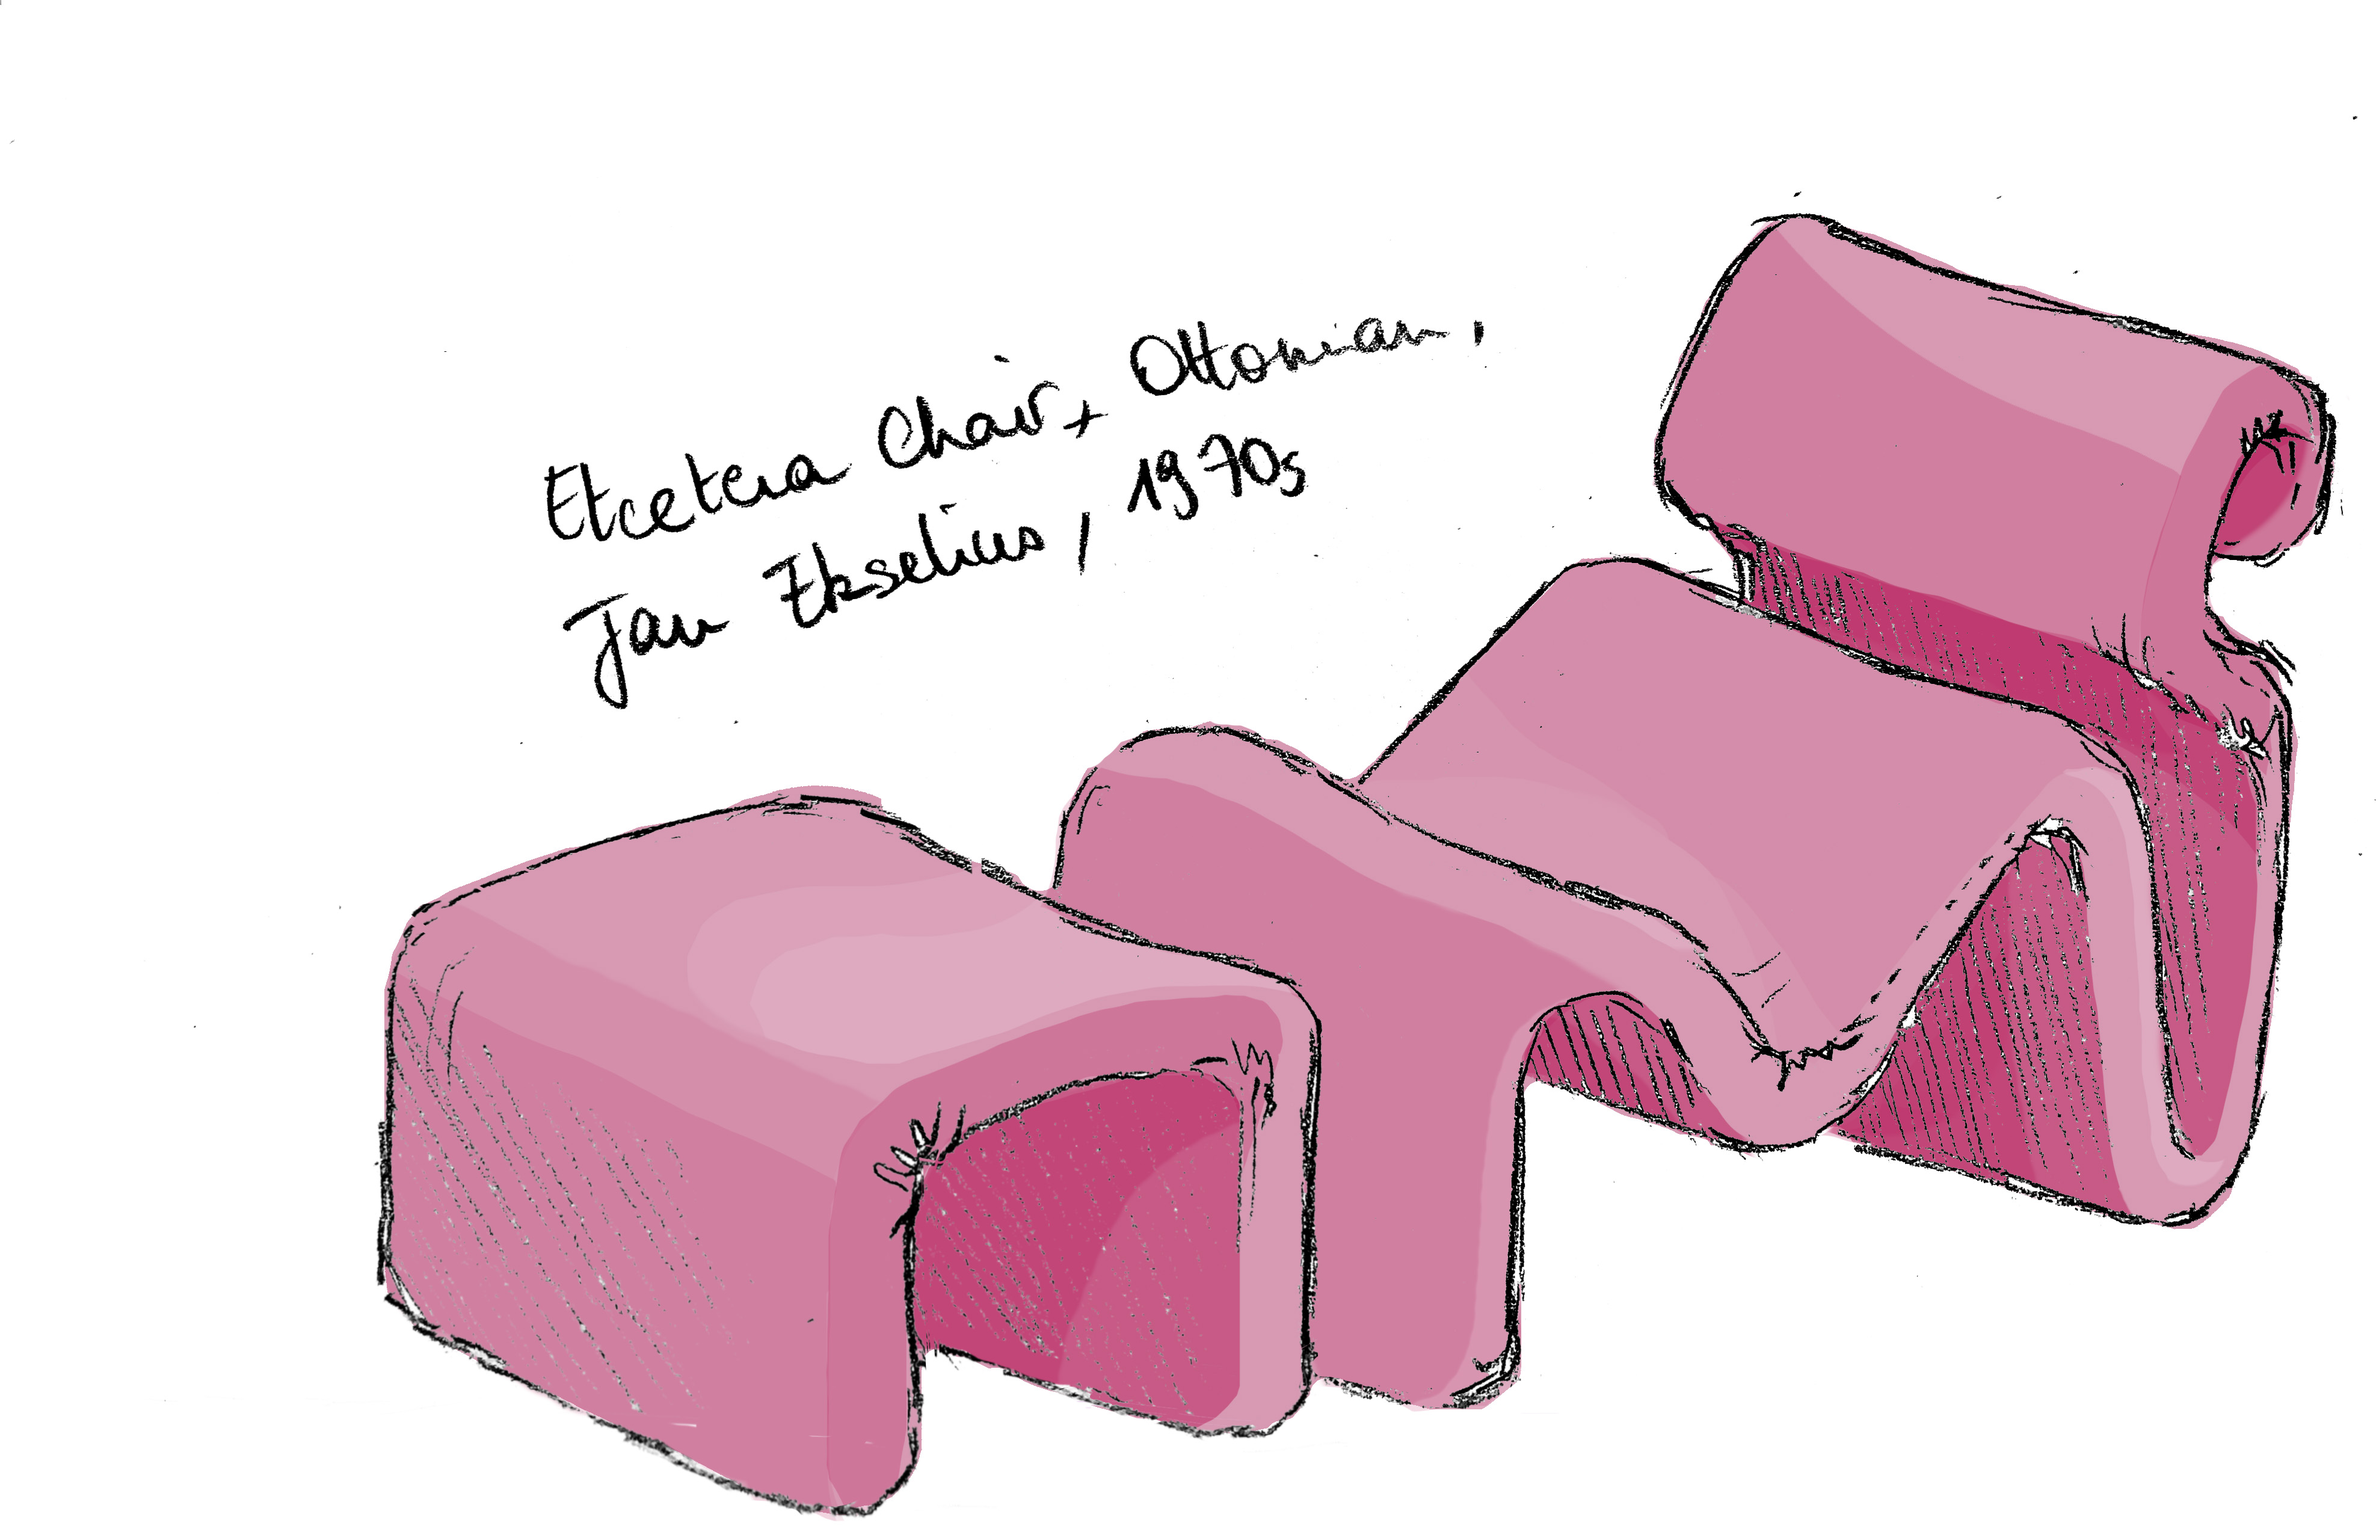
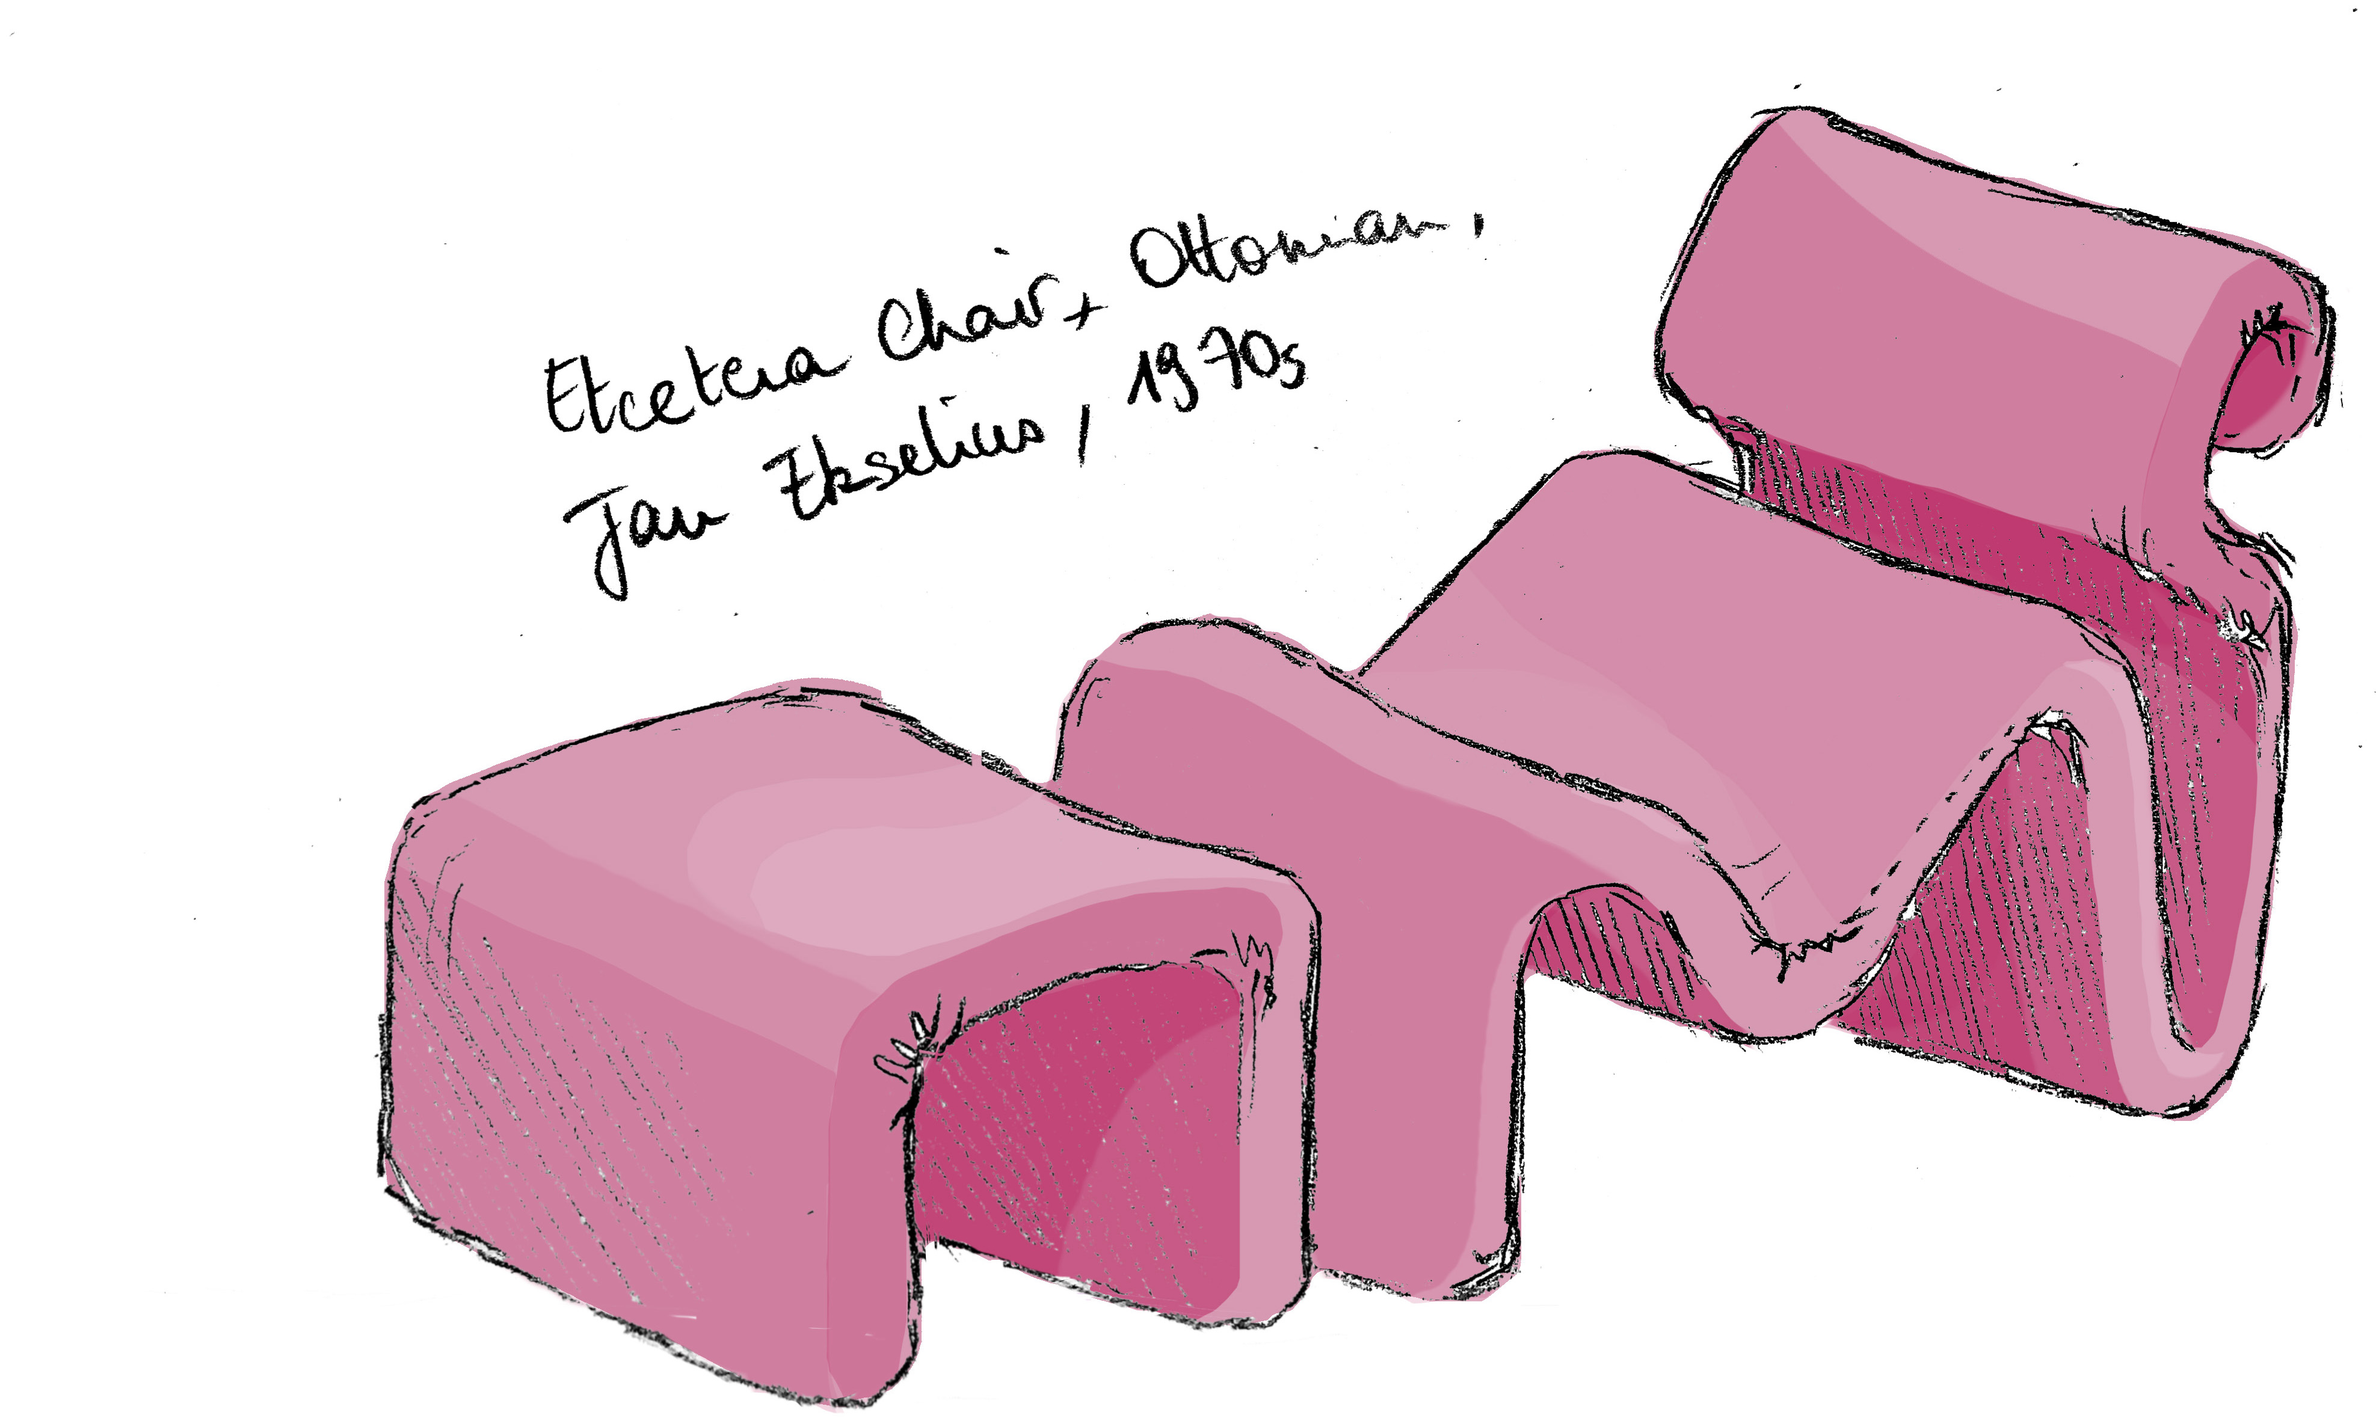
new illus update

Changed region(s): [[0.1557, 0.0619, 0.9965, 1.0], [0.218, 0.1548, 0.6228, 0.4644], [0.3114, 0.6501, 0.3425, 0.6811]]

diff --git a/illustration.html b/illustration.html
@@ -330,8 +330,8 @@
   </div>
 
   <div class="image">
-    <img src="./Sketches/camaleonda.jpg" alt="Camaleonda", 
-    style="position: relative; left: 33%; width: 57%; padding-top: 55px;">
+    <img src="./Sketches/camaleonda-dark.jpg" alt="Camaleonda", 
+    style="position: relative; left: 33%; width: 59%; padding-top: 55px;">
   </div>
 
   <div class="image">
@@ -346,7 +346,7 @@
 
   <div class="image">
     <img src="./Sketches/pumpkin-light.jpg" alt="Pumpkin", 
-    style="position: relative; width: 36%; padding-left: 15%">
+    style="position: relative; width: 36%; padding-top: 2%; padding-left: 15%">
   </div>
 
   <div class="image">
